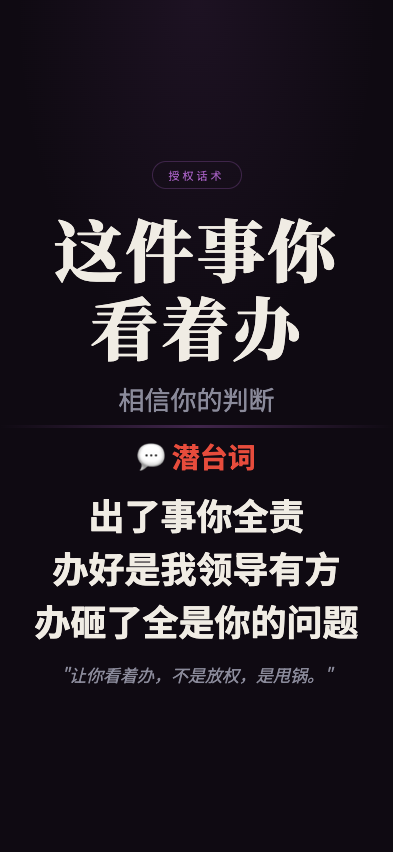
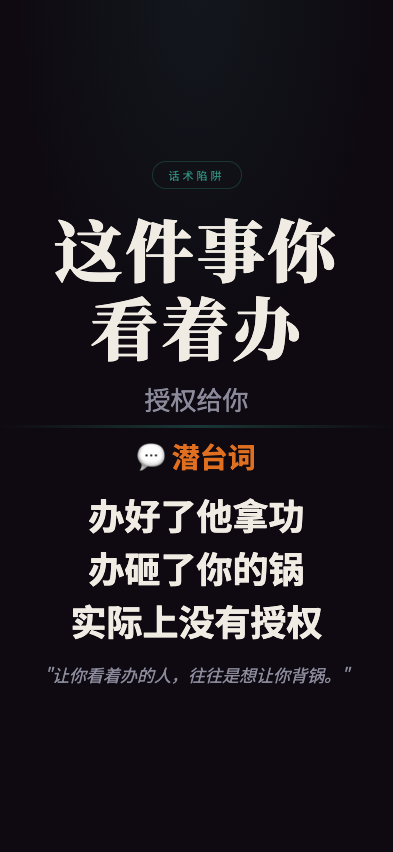
feat: 职场生存法则 screenshot - zhejianshinikanzheban

Changed region(s): [[0.0916, 0.5798, 0.916, 0.8239], [0.3053, 0.4577, 0.7023, 0.5493], [0.4275, 0.1831, 0.5802, 0.2136]]

diff --git a/wuliao-tools/tools/biz-speak/scenes/zhejianshinikanzheban.html b/wuliao-tools/tools/biz-speak/scenes/zhejianshinikanzheban.html
@@ -10,8 +10,8 @@
     --bg: #0f0a12;
     --text: #f0ece4;
     --text-dim: #8a8a9a;
-    --gold: #9b59b6;
-    --red: #e74c3c;
+    --gold: #2e8b7a;
+    --red: #e07020;
   }
   * { margin:0; padding:0; box-sizing:border-box; }
   html, body { width:100%; height:100%; overflow:hidden; }
@@ -24,11 +24,11 @@
   }
   body::before {
     content:''; position:absolute; top:0; left:0; right:0; height:45%;
-    background:radial-gradient(ellipse at 50% 0%, rgba(155,89,182,0.1) 0%, transparent 65%);
+    background:radial-gradient(ellipse at 50% 0%, rgba(46,139,122,0.1) 0%, transparent 65%);
     pointer-events:none; z-index:0;
   }
   .top { flex:1; display:flex; flex-direction:column; align-items:center; justify-content:flex-end; padding:4px 28px 8px; position:relative; z-index:1; }
-  .tag { font-size:11px; letter-spacing:3px; color:var(--gold); border:1px solid rgba(155,89,182,0.3); padding:5px 16px; border-radius:50px; margin-bottom:20px; }
+  .tag { font-size:11px; letter-spacing:3px; color:var(--gold); border:1px solid rgba(46,139,122,0.3); padding:5px 16px; border-radius:50px; margin-bottom:20px; }
   .main-title { font-family:'Noto Serif SC'; font-size:68px; font-weight:900; text-align:center; line-height:1.15; letter-spacing:3px; min-width:0; overflow-wrap:break-word; max-width:92%; }
   .sub-title { font-size:26px; color:var(--text-dim); text-align:center; margin-top:14px; }
   .divider { width:100%; height:3px; background:linear-gradient(90deg,transparent,var(--gold),transparent); opacity:0.35; flex-shrink:0; position:relative; z-index:1; }
@@ -41,19 +41,19 @@
 </head>
 <body>
   <div class="top">
-    <div class="tag">授权话术</div>
+    <div class="tag">话术陷阱</div>
     <div class="main-title">这件事你看着办</div>
-    <div class="sub-title">相信你的判断</div>
+    <div class="sub-title">授权给你</div>
   </div>
   <div class="divider"></div>
   <div class="bottom">
     <div class="truth-label">💬 潜台词</div>
     <div class="truth-lines">
-      <div class="truth-line">出了事你全责</div>
-      <div class="truth-line">办好是我领导有方</div>
-      <div class="truth-line">办砸了全是你的问题</div>
+      <div class="truth-line">办好了他拿功</div>
+      <div class="truth-line">办砸了你的锅</div>
+      <div class="truth-line">实际上没有授权</div>
     </div>
-    <div class="quote">"让你看着办，不是放权，是甩锅。"</div>
+    <div class="quote">"让你看着办的人，往往是想让你背锅。"</div>
   </div>
 </body>
 </html>
